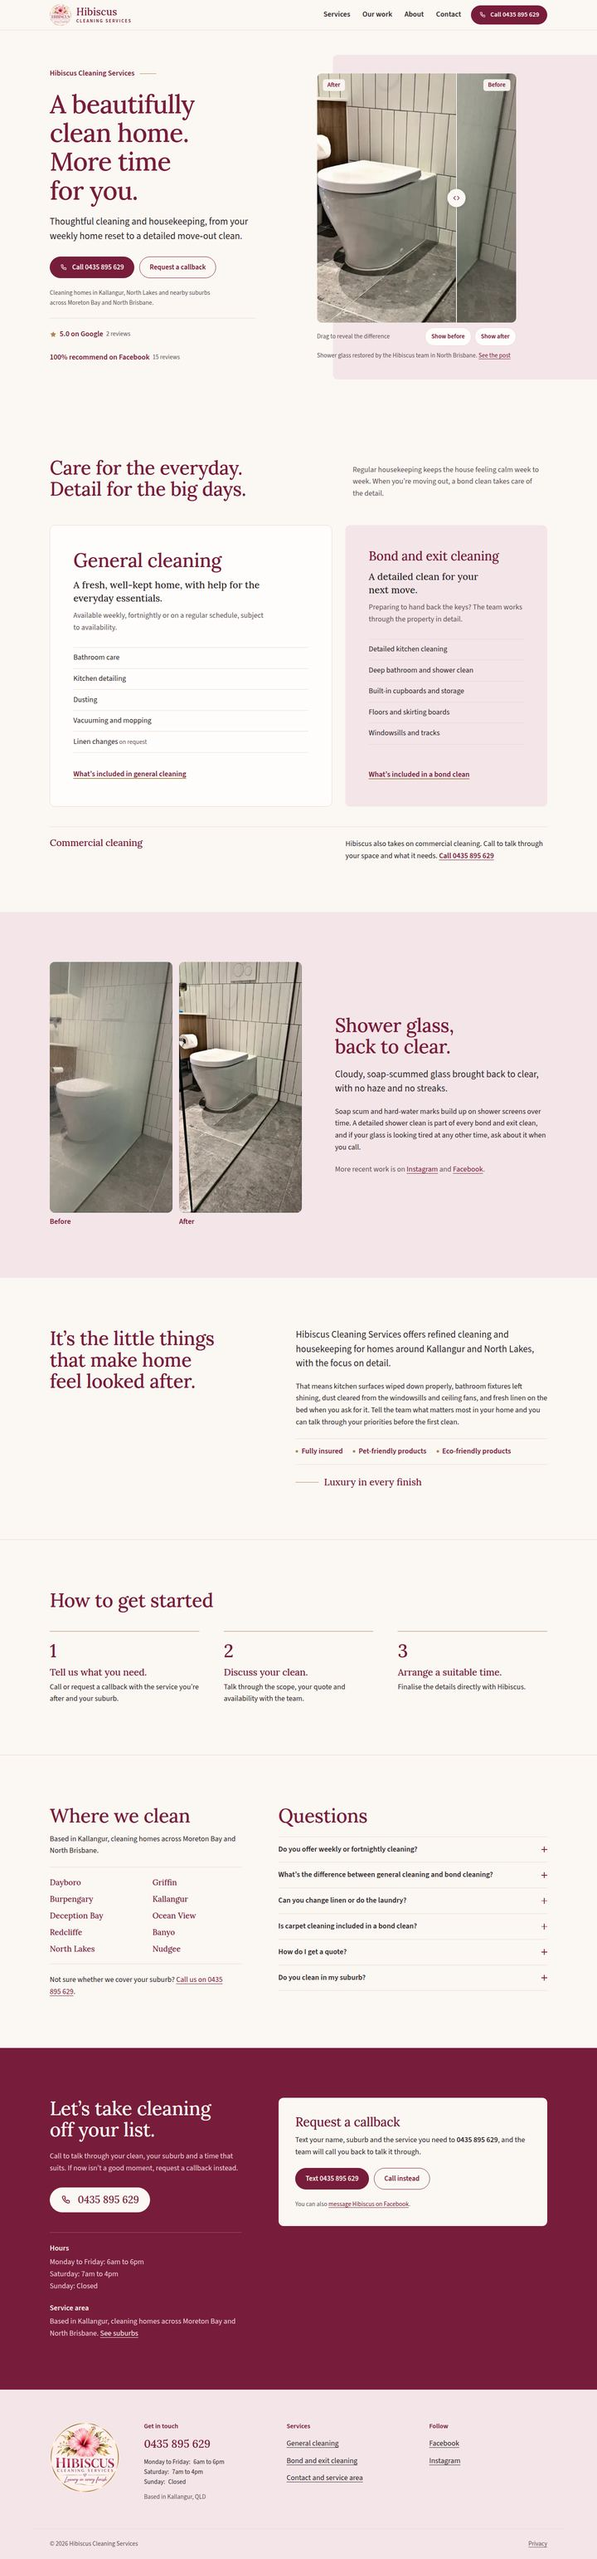
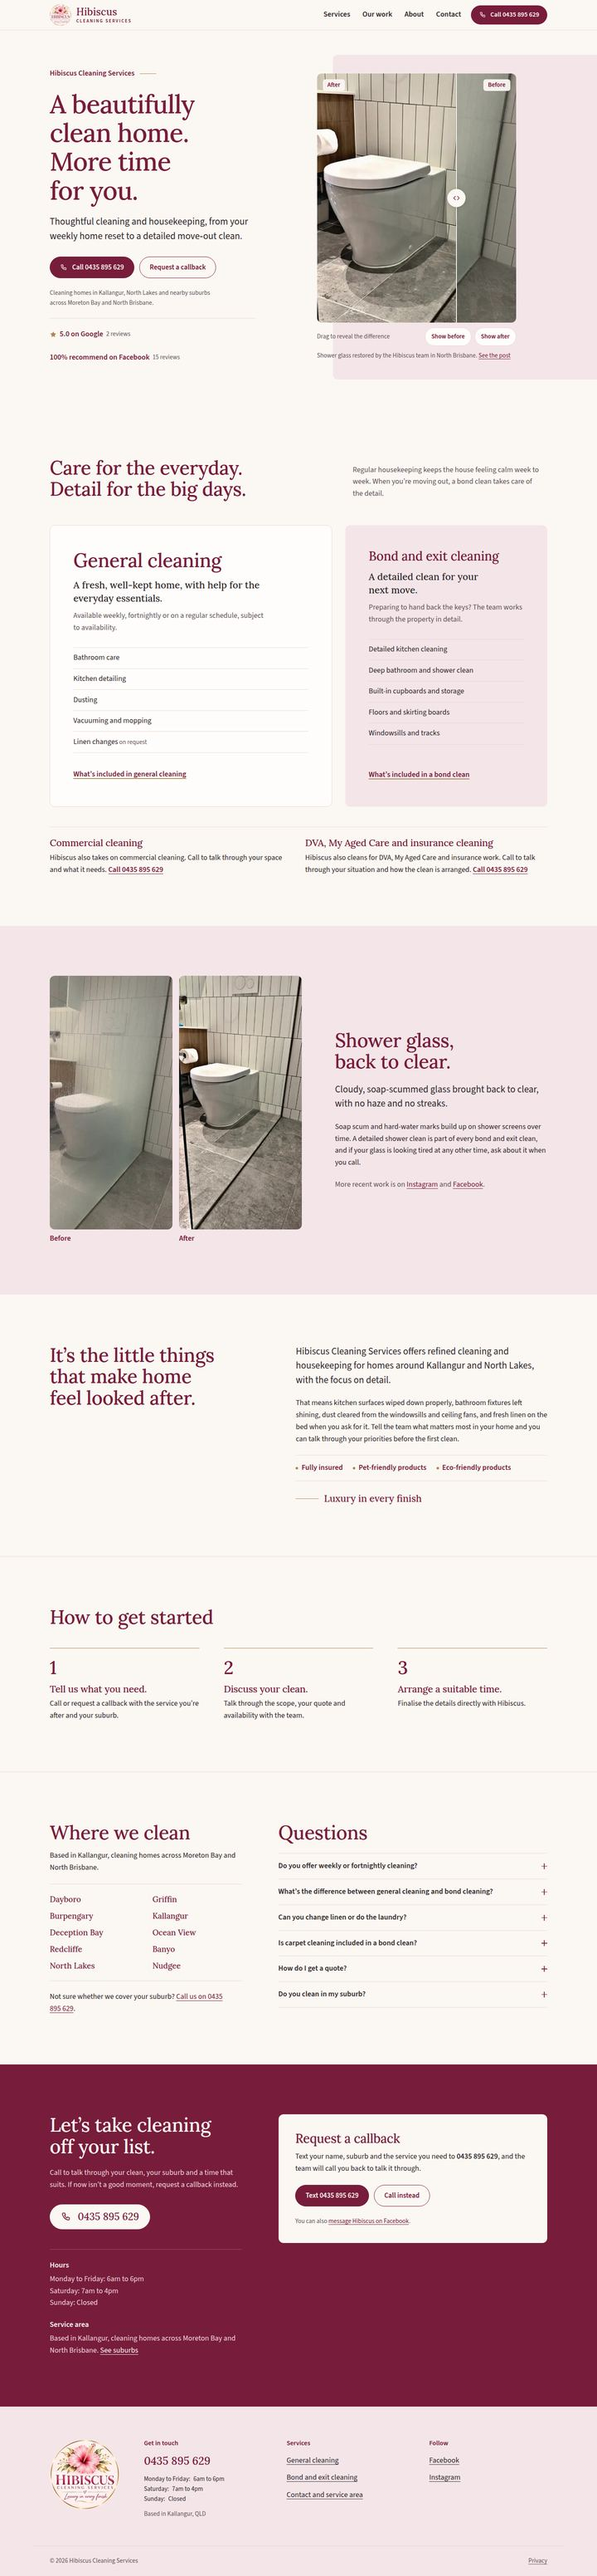
Prepare Cloudflare demo deploy, sharper photos, confirmed content
- Add wrangler.jsonc (Workers static assets, 404 page) and public/_headers
  (immutable caching for hashed assets, security headers); build pages as
  .html files so /contact is served without a redirect
- Without SITE_URL every page is noindex, keeping the demo out of search
- Replace the before/after photos with the sharper supplied pair, re-aligned
- Mark flyer claims as owner-confirmed; publish DVA / My Aged Care /
  insurance line using flyer wording only; add it to form service options
- Callback form remains off (text/call fallback)
- README: Cloudflare deploy steps; checklist and asset inventory updated

Claude-Session: https://claude.ai/code/session_01CjE9mgkP4c93Pw8TSEcyYb

diff --git a/src/content/site.ts b/src/content/site.ts
@@ -175,9 +175,9 @@ export interface Claim extends Sourced {
 }
 
 export const claims: Claim[] = [
-  { label: 'Fully insured', source: 'General cleaning flyer', status: 'supplied', publish: true },
-  { label: 'Pet-friendly products', source: 'General cleaning flyer', status: 'supplied', publish: true },
-  { label: 'Eco-friendly products', source: 'General cleaning flyer', status: 'supplied', publish: true },
+  { label: 'Fully insured', source: 'General cleaning flyer; confirmed by owner, 2 Oct 2026', status: 'confirmed', publish: true },
+  { label: 'Pet-friendly products', source: 'General cleaning flyer; confirmed by owner, 2 Oct 2026', status: 'confirmed', publish: true },
+  { label: 'Eco-friendly products', source: 'General cleaning flyer; confirmed by owner, 2 Oct 2026', status: 'confirmed', publish: true },
   { label: 'Registered ABN', source: 'General cleaning flyer shows "ABN" (number not supplied)', status: 'supplied', publish: false },
 ];
 
@@ -249,19 +249,20 @@ export const services = {
     name: 'Commercial cleaning',
     summary:
       'Hibiscus also takes on commercial cleaning. Call to talk through your space and what it needs.',
-    source: 'Bond/exit flyer lists "Commercial"; scope not yet confirmed',
-    status: 'supplied',
+    source: 'Bond/exit flyer lists "Residential | Commercial"; owner confirmed flyer content, 2 Oct 2026',
+    status: 'confirmed',
     publish: true,
   },
   care: {
     slug: 'care',
     name: 'DVA, My Aged Care and insurance cleaning',
     summary:
-      'Ask about cleaning arranged through DVA, My Aged Care or insurance.',
-    source: 'Bond/exit flyer lists "DVA | My Aged Care | Insurance"; arrangements not confirmed',
-    status: 'unverified',
-    // Hidden until the owner confirms exact arrangements (see launch checklist).
-    publish: false,
+      'Hibiscus also cleans for DVA, My Aged Care and insurance work. Call to talk through your situation and how the clean is arranged.',
+    // Wording follows the flyer only. Don't describe Hibiscus as a registered or
+    // approved provider, or mention funding or billing, without evidence.
+    source: 'Bond/exit flyer lists "DVA | My Aged Care | Insurance & more"; owner confirmed flyer content, 2 Oct 2026',
+    status: 'confirmed',
+    publish: true,
   },
 } as const;
 
@@ -271,6 +272,7 @@ export const serviceOptions = [
   'General cleaning (one-off)',
   'Bond or exit cleaning',
   'Commercial cleaning',
+  'DVA, My Aged Care or insurance cleaning',
   'Something else',
 ];
 
@@ -288,7 +290,7 @@ export const media = {
     detail:
       'Cloudy, soap-scummed glass brought back to clear, with no haze and no streaks.',
     sourceUrl: 'https://www.instagram.com/p/DSAEI0KieCf/',
-    source: 'Hibiscus Instagram post, 8 Dec 2025, supplied by owner as a screenshot. Aligned crop for comparison; no content altered.',
+    source: 'Hibiscus Instagram post, 8 Dec 2025; side-by-side pair supplied by owner, 2 Oct 2026. Split, aligned and cropped for comparison; no content altered.',
     status: 'confirmed',
     /** 'comparison' = genuine before/after pair. Switch to 'static' to show one image only. */
     mode: 'comparison' as 'comparison' | 'static',

diff --git a/docs/LAUNCH-CHECKLIST.md b/docs/LAUNCH-CHECKLIST.md
@@ -5,8 +5,9 @@ Values live in `src/content/site.ts`; each has a `source`, `status` and `publish
 
 ## Before going live
 
+- [x] **Hosting.** Cloudflare Workers config is in `wrangler.jsonc`; deploy steps are in the README. The demo runs on the free `*.workers.dev` address with `noindex`.
 - [ ] **Domain.** Set `SITE_URL` (e.g. `https://www.hibiscuscleaning.com.au`) in the host's build settings. This turns on canonical URLs, `og:url`/`og:image`, the sitemap and the robots sitemap line.
-- [ ] **Form delivery.** Choose where callback requests go, then set the env vars (see README → *Connecting the callback form*). Until then the site shows "Text 0435 895 629" and "Call instead" in place of the form.
+- [ ] **Form delivery.** Deliberately off for the demo (owner request, 2 Oct 2026). When wanted, choose where callback requests go and set the env vars (see README → *Connecting the callback form*). Until then the site shows "Text 0435 895 629" and "Call instead" in place of the form.
 - [ ] **Texting.** Confirm the team is happy to receive callback requests by SMS on 0435 895 629 (used by the fallback while the form is unconnected).
 - [ ] **Privacy page.** Review `/privacy` once the form provider and host are chosen. It currently describes no tracking, self-hosted fonts and use of details only to respond.
 
@@ -18,23 +19,23 @@ Values live in `src/content/site.ts`; each has a `source`, `status` and `publish
 
 ## Claims to confirm
 
-These come from the business's own flyer and are published as written. Confirm they're still current:
+Confirmed by the owner on 2 Oct 2026 and published as written on the flyer:
 
-- [ ] "Fully insured"
-- [ ] "Pet-friendly products"
-- [ ] "Eco-friendly products"
+- [x] "Fully insured"
+- [x] "Pet-friendly products"
+- [x] "Eco-friendly products"
 - [ ] ABN: currently hidden (`publish: false`). Add the number if you want it shown in the footer.
 
 ## Services
 
-- [ ] **Commercial cleaning.** Shown as a short "call to discuss" line. Supply the scope (offices, strata, etc.) if you want a fuller description or its own page.
-- [ ] **DVA, My Aged Care and insurance work.** Hidden until the exact arrangements are confirmed (e.g. registered provider status, how billing works). Set `services.care.publish` to `true` once the wording is approved.
+- [x] **Commercial cleaning.** Shown as a short "call to discuss" line, using the flyer's wording (owner confirmed). Supply the scope (offices, strata, etc.) for a fuller description or its own page.
+- [x] **DVA, My Aged Care and insurance work.** Published as a short "call to discuss" line, following the flyer (owner confirmed). The site deliberately doesn't claim registered or approved provider status, or mention funding or billing. Add those details only with evidence.
 - [ ] **Carpet cleaning.** Shown as "by arrangement". Confirm how it's provided and charged if you want more detail.
 - [ ] **Hours.** Taken from the Google profile (Mon–Fri 6am–6pm, Sat 7am–4pm, Sun closed).
 
 ## Photos
 
-- [ ] **Original shower-glass photos.** The before/after pair was cropped from an Instagram screenshot (about 456 × 931 px each). Supplying the original phone photos will make the hero noticeably sharper. Replace the files in `src/assets/work/`.
+- [x] **Shower-glass photos.** Replaced with the sharper side-by-side pair supplied on 2 Oct 2026 (about 510 × 1041 px each). The original full-resolution phone photos would sharpen the hero further.
 - [ ] **More work photos.** Authentic photos of finished homes, kitchens and bathrooms (with client permission) would let the service blocks carry images. A same-angle before/after pair works best for the reveal.
 - [ ] **Team photo** (optional) for the "little things" section.
 - [ ] **Logo files.** A transparent PNG or SVG version of the logo would sit more cleanly in the header than the square artwork.

diff --git a/README.md b/README.md
@@ -14,7 +14,31 @@ npm run test:e2e       # builds 3 variants and runs browser checks (needs Playwr
 
 Node 20+ is required. For the browser tests on a fresh machine, run `npx playwright install chromium` once.
 
-The output is plain static files, so it can be hosted anywhere: Netlify, Cloudflare Pages, Vercel, or any web host.
+The output is plain static files in `dist/`, so it can be hosted anywhere. It's set up for Cloudflare (below).
+
+## Deploy to Cloudflare (free `*.workers.dev` address)
+
+`wrangler.jsonc` deploys `dist/` as a Cloudflare Workers static site. `public/_headers` sets caching and security headers. The easiest route is to let Cloudflare build straight from GitHub:
+
+1. Sign in or sign up (free) at [dash.cloudflare.com](https://dash.cloudflare.com).
+2. Go to **Workers & Pages → Create → Import a repository**. Connect GitHub and pick `Hibiscus-Cleaning-Services`.
+3. Enter these settings:
+   - **Project name:** `hibiscus-cleaning-services`
+   - **Build command:** `npm run build`
+   - **Deploy command:** `npx wrangler deploy`
+   - **Production branch:** the branch holding this code (currently `claude/awesome-ptolemy-8or41u`)
+   - **Environment variables:** none needed for the demo
+4. Click **Deploy**. The site goes live at `https://hibiscus-cleaning-services.<your-account>.workers.dev`. Every push to the branch redeploys it.
+
+From your own computer you can deploy instead with `npx wrangler login`, then `npm run deploy`.
+
+**While no domain is set** (no `SITE_URL`), every page carries `noindex`, so the demo stays out of Google. The callback form stays off and visitors are offered text or call instead.
+
+**When you're ready to launch:**
+
+1. Add a custom domain in Cloudflare (**Settings → Domains & Routes**).
+2. Set `SITE_URL` as a build variable. This turns on indexing, canonical URLs and the sitemap.
+3. Connect the form (below) if you want it.
 
 ## Updating content
 

diff --git a/docs/ASSETS.md b/docs/ASSETS.md
@@ -6,8 +6,9 @@
 | `docs/source-assets/flyer-general-cleaning.webp` | General cleaning flyer | Supplied by owner | Content only: inclusions, frequency, claims. Not shown. |
 | `docs/source-assets/flyer-bond-exit-cleaning.webp` | Bond & exit flyer | Supplied by owner | Content only: inclusions, phone, service types. Not shown. |
 | `docs/source-assets/instagram-shower-glass-post-screenshot.webp` | Screenshot of the Instagram post "Shower Glass Restored", 8 Dec 2025, tagged North Brisbane | Supplied by owner (`instagram.com/p/DSAEI0KieCf/`) | Source of the before/after photos |
-| `src/assets/work/shower-glass-{before,after}-full.png` | The two photo panels, cropped from the screenshot without other changes | As above | "Our work" (home), bond page |
-| `src/assets/work/shower-glass-{before,after}-aligned.png` | Same photos cropped to 4:5, offset so the toilet and tile lines line up, and upscaled 2× (Lanczos, light sharpening) | As above | Hero reveal |
+| `docs/source-assets/shower-glass-pair-supplied.webp` | Side-by-side before/after of the same job, 1041 × 1041 | Supplied by owner, 2 Oct 2026 | Replaces the screenshot crops |
+| `src/assets/work/shower-glass-{before,after}-full.png` | The two panels split from the supplied pair (504 × 1041 each; before trimmed 6px a side to match) | As above | "Our work" (home), bond page |
+| `src/assets/work/shower-glass-{before,after}-aligned.png` | Same photos cropped to 4:5, offset so the toilet seat and tile lines line up, and upscaled 2× (Lanczos, light sharpening) | As above | Hero reveal |
 | `public/og-image.jpg` | Logo centred on ivory, 1200 × 630 | Built from the logo | Social sharing (only emitted once `SITE_URL` is set) |
 | `public/fonts/*.woff2` | Lora 500; Source Sans 3 400 and 600 (Latin) | Fontsource, SIL Open Font License | All pages |
 
